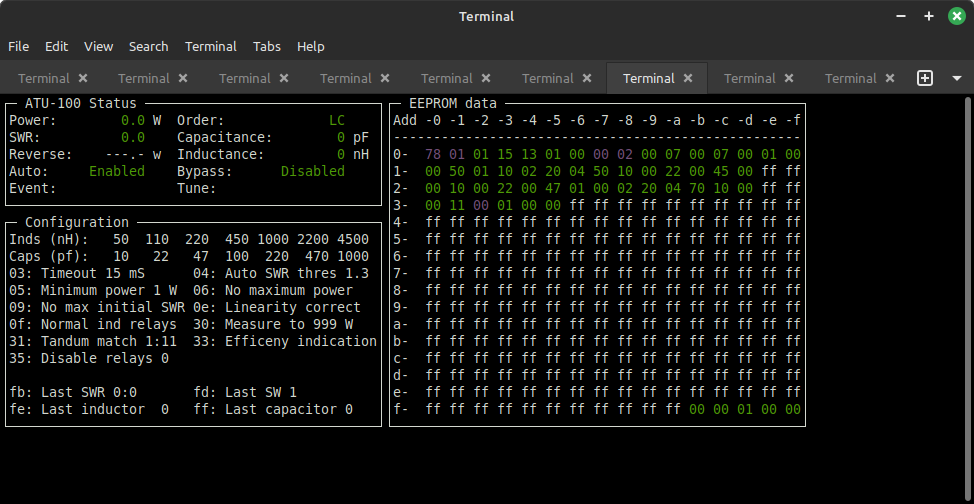
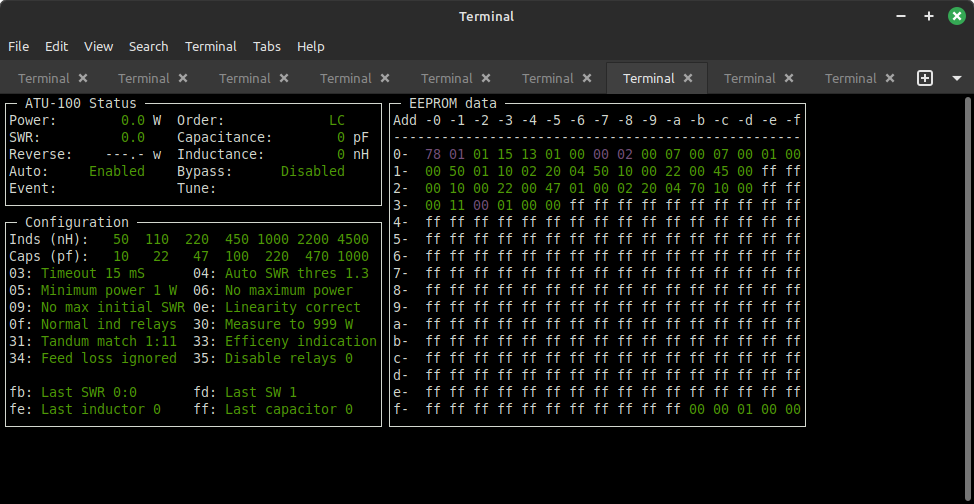
Added colour to configuration window

Changed region(s): [[0.0308, 0.4464, 0.4004, 0.8333], [0.2156, 0.7738, 0.3696, 0.8333]]

diff --git a/python/atu100diagnostics.py b/python/atu100diagnostics.py
@@ -109,7 +109,9 @@ CONFIG_WIN_HEIGHT = EEPROM_WIN_HEIGHT - STAT_WIN_HEIGHT
 CONFIG_WIN_DOWN   = STAT_WIN_HEIGHT
 CONFIG_WIN_ACROSS = 0
 CONFIG_FIRST      = 1
+CONFIG_FIRSTD     = CONFIG_FIRST + 4
 CONFIG_SECOND     = 24
+CONFIG_SECONDD    = CONFIG_SECOND + 4
 
 class atu100diag(object):
     def __init__(self):
@@ -404,51 +406,56 @@ class atu100diag(object):
         address = cell.EEPROM_TIMEOUT_TIME
         value = self.atu.eeprom[address]
         bcd = self.get_bcd(value)
-        valstr = f'{address:02x}: Timeout {bcd} mS'
+        valstr = f'Timeout {bcd} mS'
         logging.info(valstr)
-        self.cwin.addstr(row, CONFIG_FIRST, valstr)
+        self.cwin.addstr(row, CONFIG_FIRST, f'{address:02x}:')
+        self.cwin.addstr(row, CONFIG_FIRSTD, valstr, curses.color_pair(C_GOOD_DATA))
 
         address = cell.EEPROM_SWR_THRESHOLD
         value = self.atu.eeprom[address]
         dec = value // 16
         frac = value & 0xf
-        valstr = f'{address:02x}: Auto SWR thres {dec}.{frac}'
+        valstr = f'Auto SWR thres {dec}.{frac}'
         logging.info(valstr)
-        self.cwin.addstr(row, CONFIG_SECOND, valstr)
+        self.cwin.addstr(row, CONFIG_SECOND, f'{address:02x}:')
+        self.cwin.addstr(row, CONFIG_SECONDD, valstr, curses.color_pair(C_GOOD_DATA))
 
         address = cell.EEPROM_MIN_POWER
         value = self.atu.eeprom[address]
         bcd = self.get_bcd(value)
         if self.atu.eeprom[cell.EEPROM_POWER_MEASURE_LEVEL] == 1:
             bcd *= 10
-        valstr = f'{address:02x}: Minimum power {bcd} W'
+        valstr = f'Minimum power {bcd} W'
         logging.info(valstr)
         row += 1
-        self.cwin.addstr(row, CONFIG_FIRST, valstr)
+        self.cwin.addstr(row, CONFIG_FIRST, f'{address:02x}:')
+        self.cwin.addstr(row, CONFIG_FIRSTD, valstr, curses.color_pair(C_GOOD_DATA))
 
         address = cell.EEPROM_MAX_POWER
         value = self.atu.eeprom[address]
         if value == 0:
-            valstr = f'{address:02x}: No maximum power'
+            valstr = 'No maximum power'
         else:
             bcd = self.get_bcd(value)
             if self.atu.eeprom[cell.EEPROM_POWER_MEASURE_LEVEL] == 1:
                 bcd *= 10
-            valstr = f'{address:02x}: Max power {bcd} W'
+            valstr = f'Max power {bcd} W'
         logging.info(valstr)
-        self.cwin.addstr(row, CONFIG_SECOND, valstr)
+        self.cwin.addstr(row, CONFIG_SECOND, f'{address:02x}:')
+        self.cwin.addstr(row, CONFIG_SECONDD, valstr, curses.color_pair(C_GOOD_DATA))
 
         address = cell.EEPROM_MAX_INIT_SWR
         value = self.atu.eeprom[address]
         if value == 0:
-            valstr = f'{address:02x}: No max initial SWR'
+            valstr = 'No max initial SWR'
         else:
             dec = value // 16
             frac = value & 0xf
-            valstr = f'{address:02x}: Max init SWR {dec}.{frac}'
+            valstr = f'Max init SWR {dec}.{frac}'
         logging.info(valstr)
         row += 1
-        self.cwin.addstr(row, CONFIG_FIRST, valstr)
+        self.cwin.addstr(row, CONFIG_FIRST, f'{address:02x}:')
+        self.cwin.addstr(row, CONFIG_FIRSTD, valstr, curses.color_pair(C_GOOD_DATA))
 
         address = cell.EEPROM_NUMBER_INDS
         value = self.atu.eeprom[address]
@@ -496,29 +503,35 @@ class atu100diag(object):
 
         address = cell.EEPROM_ENABLE_NONLINEAR_DIODE
         value = self.atu.eeprom[address]
+        attr = C_GOOD_DATA
         if value == 0:
-            valstr = f'{address:02x}: No linear correct'
+            valstr = 'No linear correct'
         elif value == 1:
-            valstr = f'{address:02x}: Linearity correct'
+            valstr = 'Linearity correct'
         else:
-            valstr = f'{address:02x}: Invalid linear cor'
+            attr =C_BAD_DATA
+            valstr = 'Invalid linear cor'
         logging.info(valstr)
-        self.cwin.addstr(row, CONFIG_SECOND, valstr)
+        self.cwin.addstr(row, CONFIG_SECOND, f'{address:02x}:')
+        self.cwin.addstr(row, CONFIG_SECONDD, valstr, curses.color_pair(attr))
 
         address = cell.EEPROM_INVERSE_INDUCTANCE_RELAY
         value = self.atu.eeprom[address]
+        attr = C_GOOD_DATA
         if value == 0:
-            valstr = f'{address:02x}: Normal ind relays'
+            valstr = 'Normal ind relays'
         elif value == 1:
-            valstr = f'{address:02x}: Inverse ind relays'
+            valstr = 'Inverse ind relays'
         else:
-            valstr = f'{address:02x}: Invalid ind relays'
+            attr =C_BAD_DATA
+            valstr = 'Invalid ind relays'
         logging.info(valstr)
         row += 1
-        self.cwin.addstr(row, CONFIG_FIRST, valstr)
+        self.cwin.addstr(row, CONFIG_FIRST, f'{address:02x}:')
+        self.cwin.addstr(row, CONFIG_FIRSTD, valstr, curses.color_pair(attr))
 
         if num_inductors > 0:
-            valstr = 'Inds (nH): '
+            valstr = ''
             for relay in range(num_inductors):
                 if relay != 0:
                     valstr += ' '
@@ -526,14 +539,15 @@ class atu100diag(object):
                 value += self.get_bcd(self.atu.eeprom[cell.EEPROM_INDUCTOR_FIRST + relay * 2 + 1])
                 valstr += f'{value:>4}'
             logging.info(valstr)
+            self.cwin.addstr(1, 1, 'Inds (nH): ')
+            self.cwin.addstr(1, 12, valstr, curses.color_pair(C_GOOD_DATA))
         elif linear_inds:
-            valstr = 'Linear spacing of inductors'
+            self.cwin.addstr(1, 1, 'Linear spacing of inductors', curses.color_pair(C_GOOD_DATA))
         else:
-            valstr = 'Invalid number of inductors'
-        self.cwin.addstr(1, 1, valstr)
+            self.cwin.addstr(1, 1, 'Invalid number of inductors', curses.color_pair(C_BAD_DATA))
 
         if num_capacitors > 0:
-            valstr = 'Caps (pf): '
+            valstr = ''
             for relay in range(num_capacitors):
                 if relay != 0:
                     valstr += ' '
@@ -541,83 +555,101 @@ class atu100diag(object):
                 value += self.get_bcd(self.atu.eeprom[cell.EEPROM_CAPACITOR_FIRST + relay * 2 + 1])
                 valstr += f'{value:>4}'
             logging.info(valstr)
+            self.cwin.addstr(2, 1, 'Caps (pf): ')
+            self.cwin.addstr(2, 12, valstr, curses.color_pair(C_GOOD_DATA))
         elif linear_caps:
-            valstr = 'Linear spacing of capacitors'
+            self.cwin.addstr(2, 1, 'Linear spacing of capacitors', curses.color_pair(C_GOOD_DATA))
         else:
-            valstr = 'Invalid number of capacitors'
-        self.cwin.addstr(2, 1, valstr)
+            self.cwin.addstr(2, 1, 'Invalid number of capacitors', curses.color_pair(C_BAD_DATA))
 
         address = cell.EEPROM_POWER_MEASURE_LEVEL
         value = self.atu.eeprom[address]
+        attr = C_GOOD_DATA
         if value == 0:
-            valstr = f'{address:02x}: Measure to 999 W'
+            valstr = 'Measure to 999 W'
         elif value == 1:
-            valstr = f'{address:02x}: Measure to 9999 W'
+            valstr = 'Measure to 9999 W'
         else:
-            valstr = f'{address:02x}: Invalid range'
+            attr =C_BAD_DATA
+            valstr = 'Invalid range'
         logging.info(valstr)
-        self.cwin.addstr(row, CONFIG_SECOND, valstr)
+        self.cwin.addstr(row, CONFIG_SECOND, f'{address:02x}:')
+        self.cwin.addstr(row, CONFIG_SECONDD, valstr, curses.color_pair(attr))
 
         address = cell.EEPROM_TANDEM_MATCH
         value = self.atu.eeprom[address]
         bcd = self.get_bcd(value)
-        valstr = f'{address:02x}: Tandum match 1:{bcd}'
+        valstr = f'Tandum match 1:{bcd}'
         logging.info(valstr)
         row += 1
-        self.cwin.addstr(row, CONFIG_FIRST, valstr)
+        self.cwin.addstr(row, CONFIG_FIRST, f'{address:02x}:')
+        self.cwin.addstr(row, CONFIG_FIRSTD, valstr, curses.color_pair(C_GOOD_DATA))
 
         address = cell.EEPROM_ADDITIONAL_INDICATION
         value = self.atu.eeprom[address]
+        attr = C_GOOD_DATA
         if value == 0:
-            valstr = f'{address:02x}: LC indication only'
+            valstr = 'LC indication only'
         elif value == 1:
-            valstr = f'{address:02x}: Efficeny indication'
+            valstr = 'Efficeny indication'
         else:
-            valstr = f'{address:02x}: Invalid indication'
+            attr =C_BAD_DATA
+            valstr = 'Invalid indication'
         logging.info(valstr)
-        self.cwin.addstr(row, CONFIG_SECOND, valstr)
+        self.cwin.addstr(row, CONFIG_SECOND, f'{address:02x}:')
+        self.cwin.addstr(row, CONFIG_SECONDD, valstr, curses.color_pair(attr))
 
         address = cell.EEPROM_FEEDER_LOSS
         value = self.atu.eeprom[address]
         if value == 0:
-            logging.info(f'{address:02x}: Feeder loss ignored')
+            valstr = 'Feed loss ignored'
         else:
             dec = value // 16
             frac = value & 0xf
-            logging.info(f'{address:02x}: Feeder power loss ratio 1:{dec}.{frac}')
+            valstr = f'Feed loss 1:{dec}.{frac}'
+        logging.info(valstr)
+        row += 1
+        self.cwin.addstr(row, CONFIG_FIRST, f'{address:02x}:')
+        self.cwin.addstr(row, CONFIG_FIRSTD, valstr, curses.color_pair(C_GOOD_DATA))
 
         address = cell.EEPROM_DISABLE_RELAYS
         value = self.atu.eeprom[address]
-        valstr = f'{address:02x}: Disable relays {value}'
+        valstr = f'Disable relays {value}'
         logging.info(valstr)
-        row += 1
-        self.cwin.addstr(row, CONFIG_FIRST, valstr)
+        self.cwin.addstr(row, CONFIG_SECOND, f'{address:02x}:')
+        self.cwin.addstr(row, CONFIG_SECONDD, valstr, curses.color_pair(C_GOOD_DATA))
+
 
         address = cell.EEPROM_LAST_SWR_L
         valuelow = self.atu.eeprom[address]
         valuehi = self.atu.eeprom[address+1]
-        valstr = f'{address:02x}: Last SWR {valuehi}:{valuelow}'
+        valstr = f'Last SWR {valuehi}:{valuelow}'
+        logging.info(valstr)
         row += 2
-        self.cwin.addstr(row, CONFIG_FIRST, valstr)
+        self.cwin.addstr(row, CONFIG_FIRST, f'{address:02x}:')
+        self.cwin.addstr(row, CONFIG_FIRSTD, valstr, curses.color_pair(C_GOOD_DATA))
 
         address = cell.EEPROM_LAST_SW
         value = self.atu.eeprom[address]
-        valstr = f'{address:02x}: Last SW {value}'
+        valstr = f'Last SW {value}'
         logging.info(valstr)
-        self.cwin.addstr(row, CONFIG_SECOND, valstr)
+        self.cwin.addstr(row, CONFIG_SECOND, f'{address:02x}:')
+        self.cwin.addstr(row, CONFIG_SECONDD, valstr, curses.color_pair(C_GOOD_DATA))
 
         address = cell.EEPROM_LAST_IND
         value = self.atu.eeprom[address]
-        valstr = f'{address:02x}: Last inductor  {value}'
+        valstr = f'Last inductor {value}'
         logging.info(valstr)
         row += 1
-        self.cwin.addstr(row, CONFIG_FIRST, valstr)
+        self.cwin.addstr(row, CONFIG_FIRST, f'{address:02x}:')
+        self.cwin.addstr(row, CONFIG_FIRSTD, valstr, curses.color_pair(C_GOOD_DATA))
 
         address = cell.EEPROM_LAST_CAP
         value = self.atu.eeprom[address]
-        valstr = f'{address:02x}: Last capacitor {value}'
+        valstr = f'Last capacitor {value}'
         logging.info(valstr)
-        self.cwin.addstr(row, CONFIG_SECOND, valstr)
+        self.cwin.addstr(row, CONFIG_SECOND, f'{address:02x}:')
+        self.cwin.addstr(row, CONFIG_SECONDD, valstr, curses.color_pair(C_GOOD_DATA))
 
         self.cwin.noutrefresh()
         self.mwin.noutrefresh()